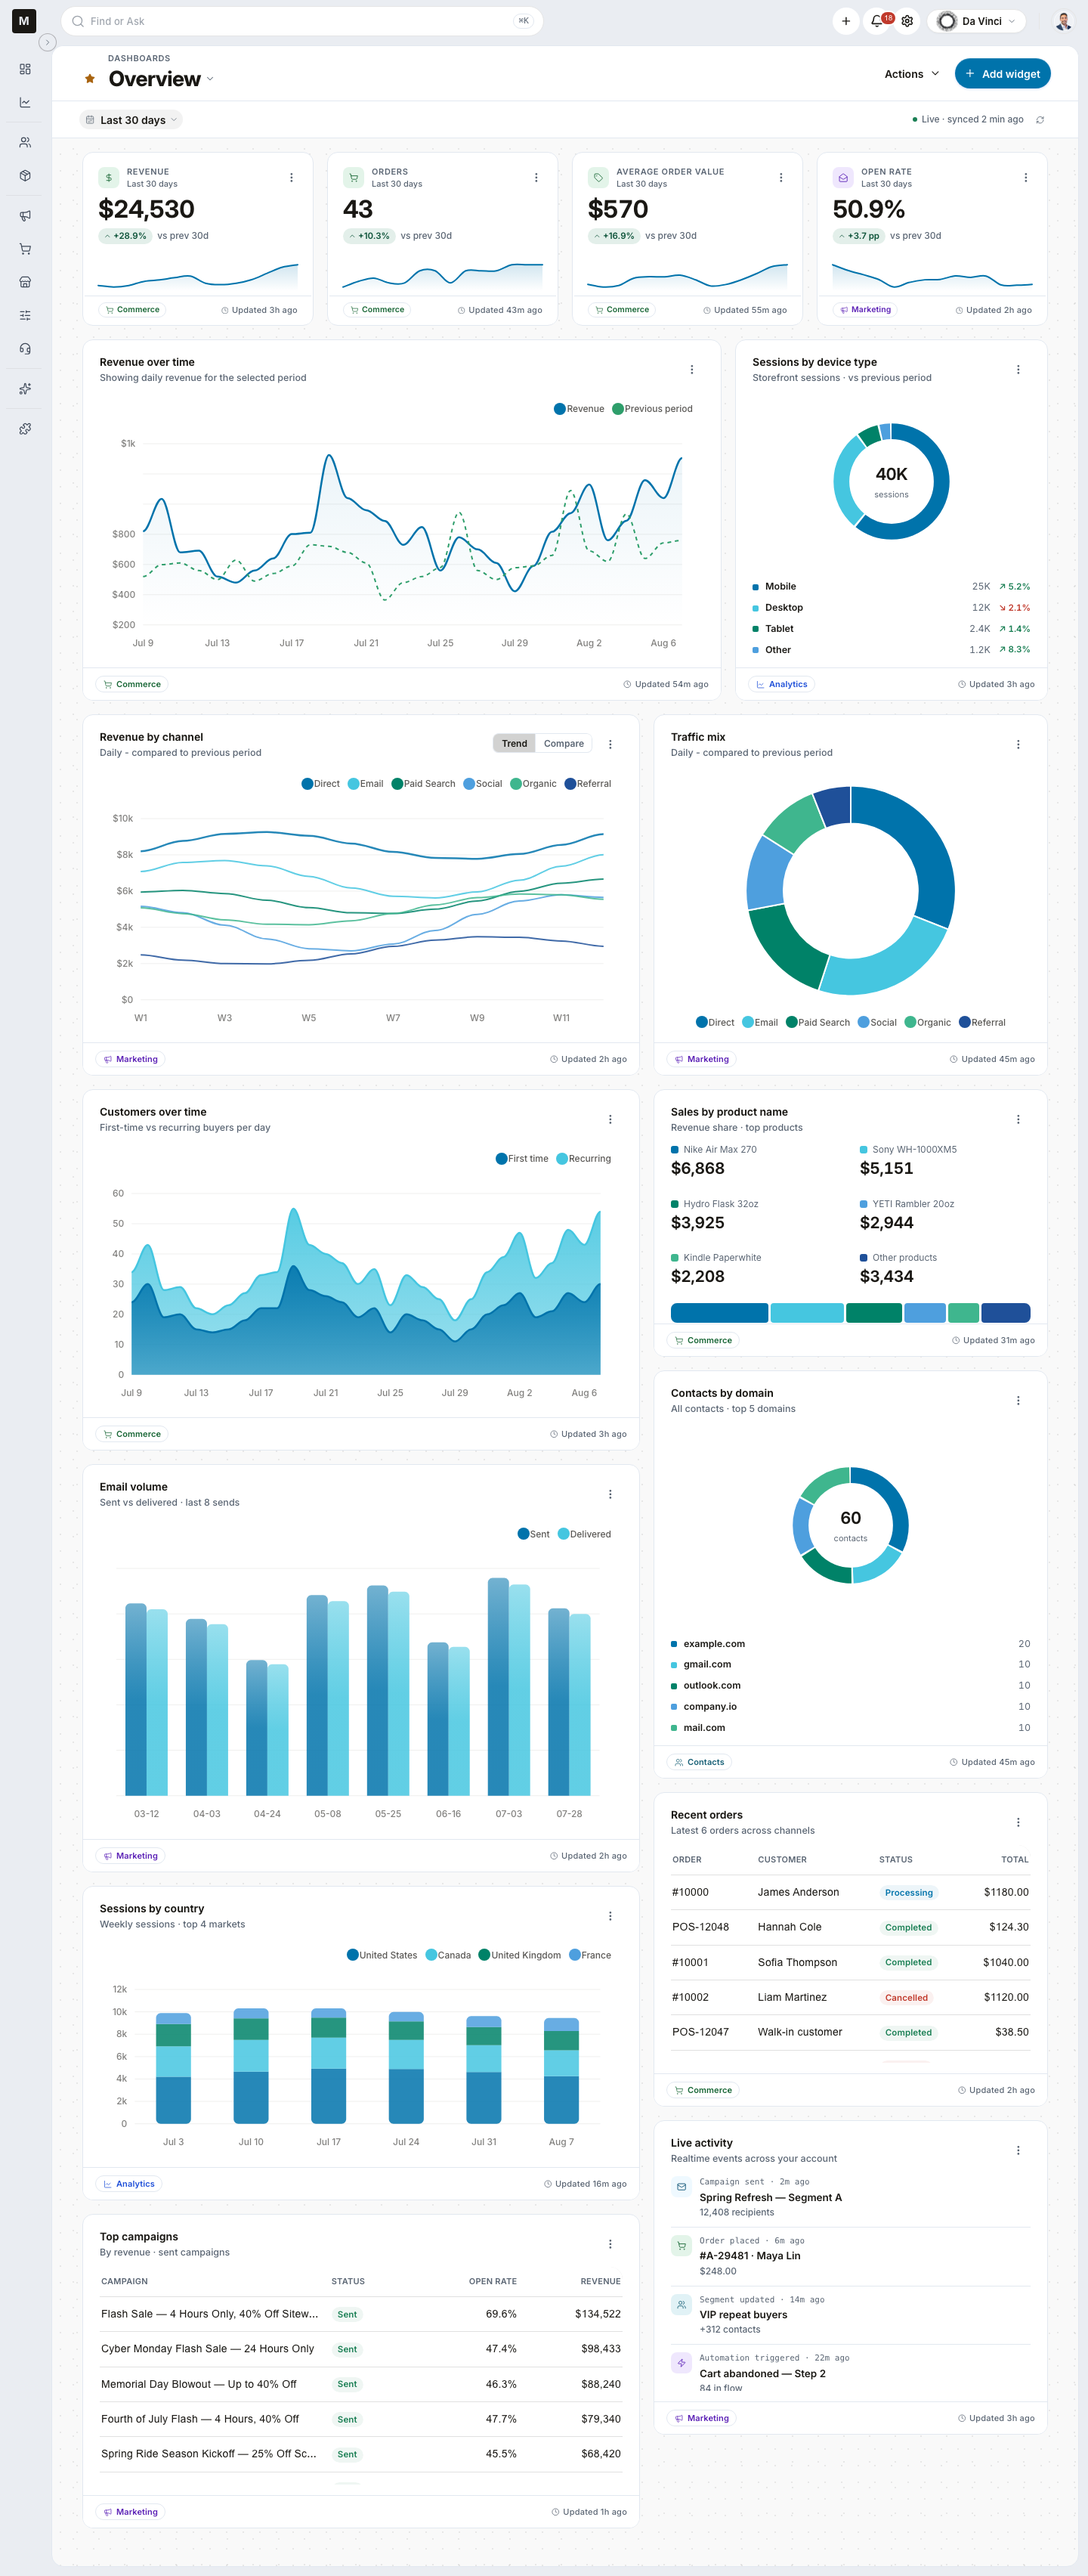
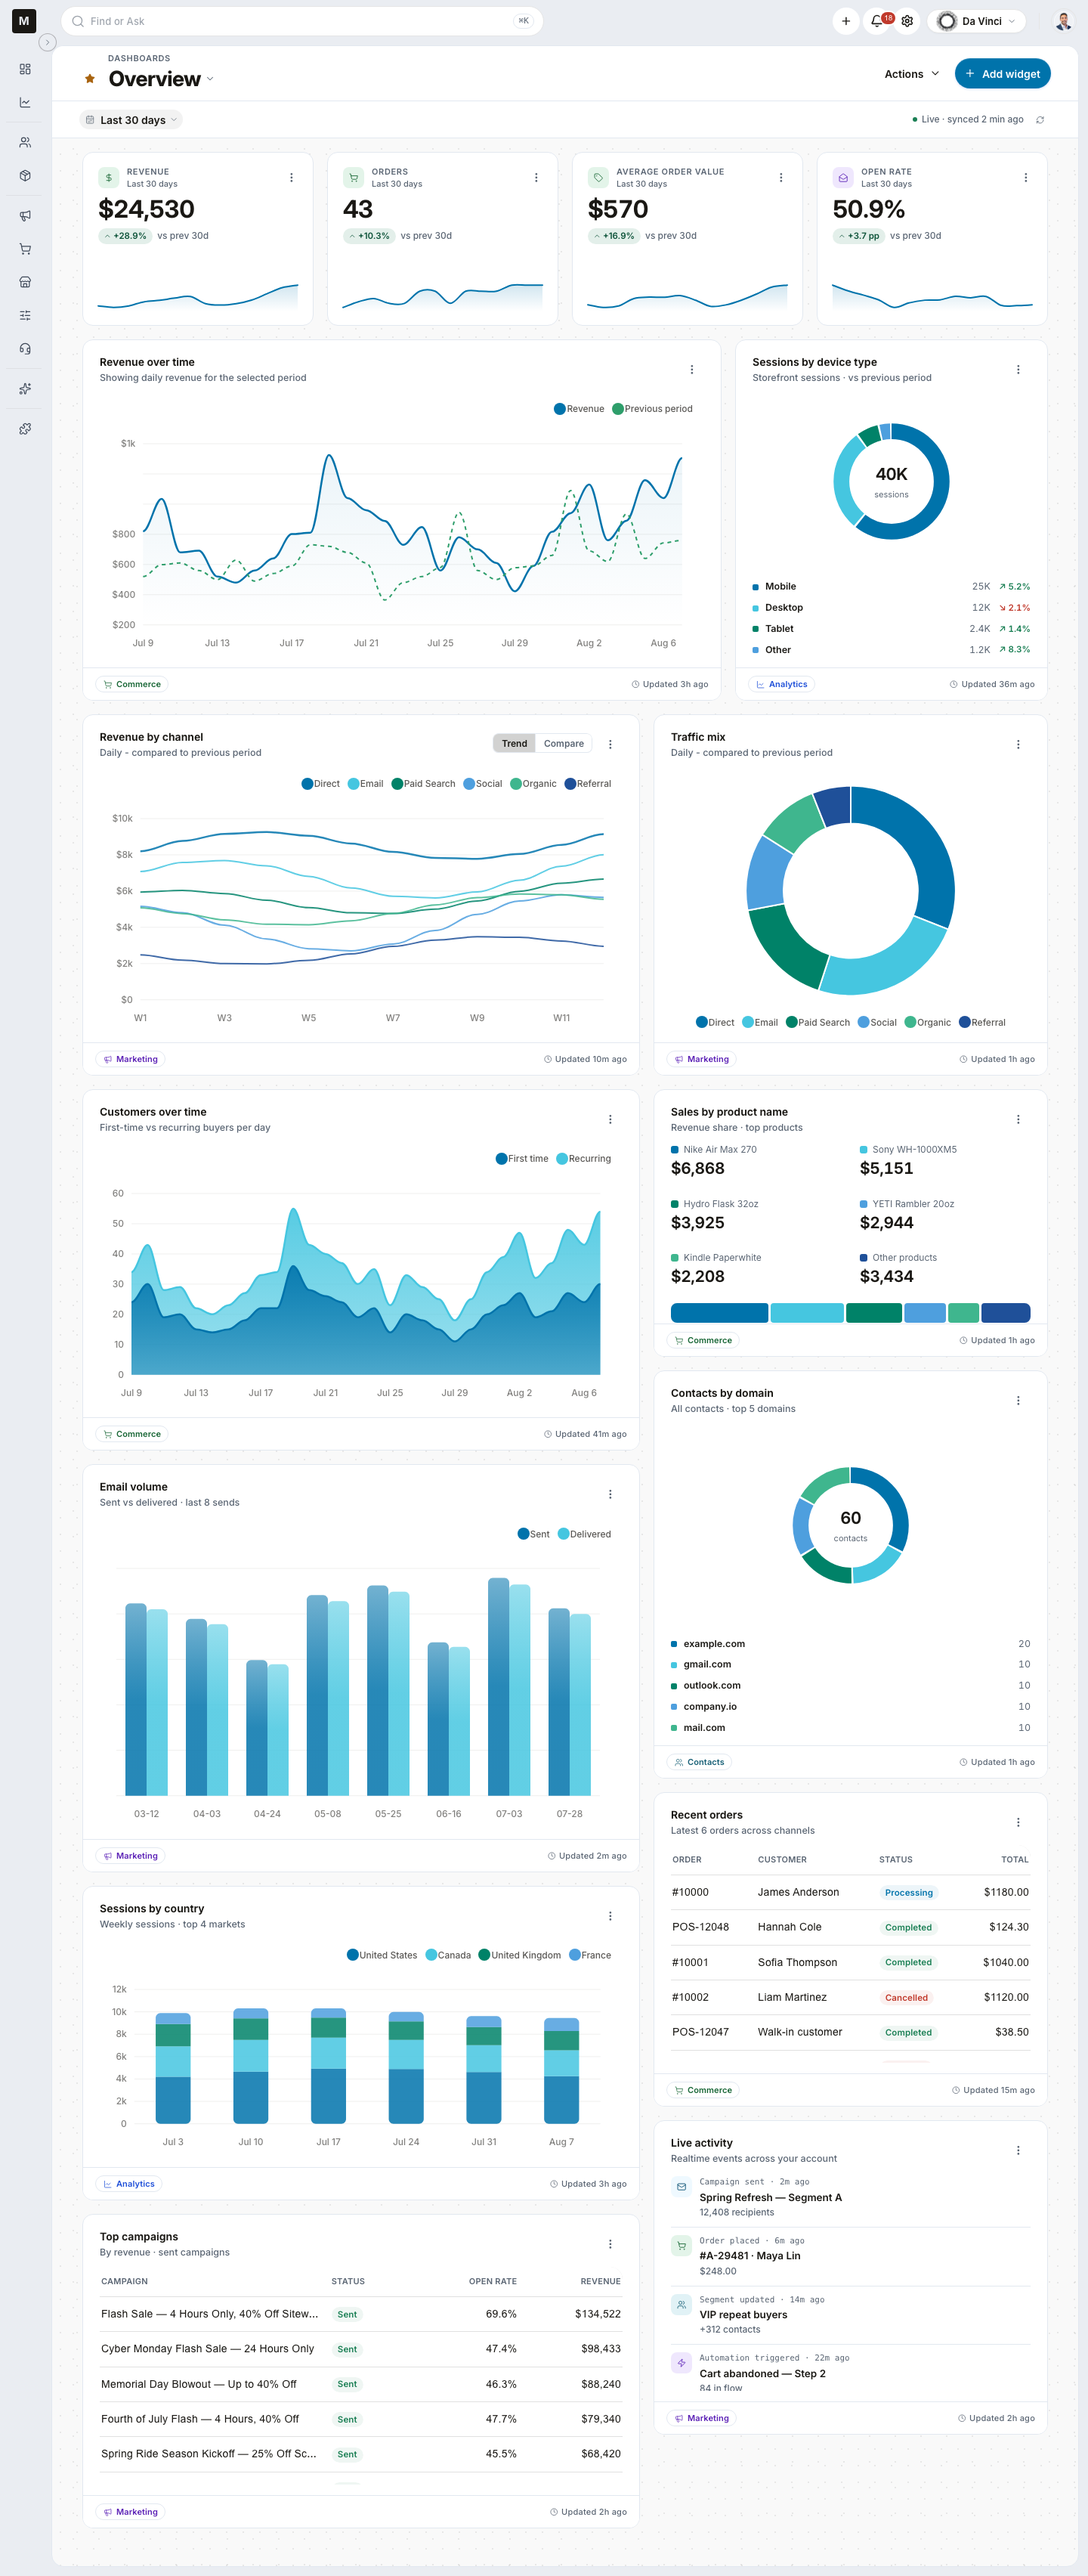
[chore]: recapture dashboards + deck after stat-card footer removal

diff --git a/docs/chart-exploration/deck/index.html b/docs/chart-exploration/deck/index.html
@@ -49,7 +49,7 @@
 <header class="hero">
   <h1>Chart Visual System Exploration</h1>
   <p class="sub">Four chart systems, one dashboard. Same layout, same widgets, same numbers —
-  only the data-visualization language changes. Captured 2026-08-07 @ 81ee627.</p>
+  only the data-visualization language changes. Captured 2026-08-07 @ 141faa3.</p>
 </header>
 
 <section id="s00">
